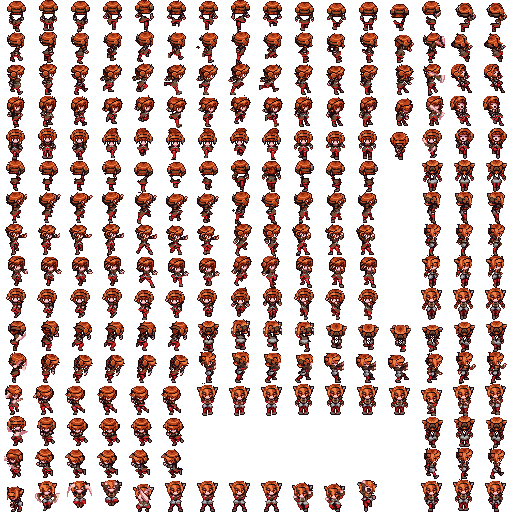
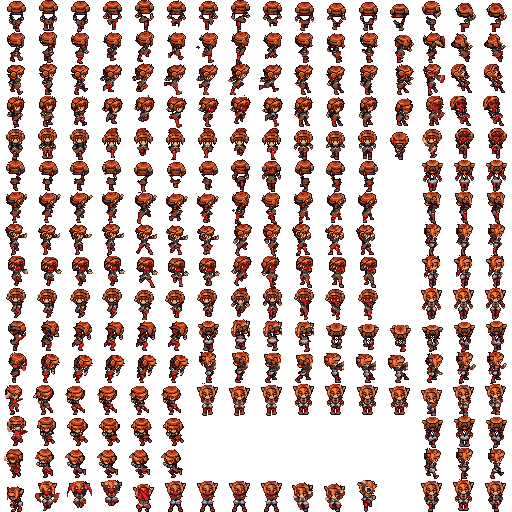
Class skins read as men: tan skin, plain dark eyes, no ribbon
The original hero's face and collar still read as a girl after the haircut. make_skins.py now maps the pink skin to a warm tan (which also takes the blush and the lip colour away), drops the white sparkle from the eyes so they shrink to the dark pupil, and turns the ribbon tie under the chin into collar. The sword's slash streak shared the skin's pinks; a skin-coloured patch too big to be a hand or a face is now drawn in the class's trim colour. Audit scores 83-91, every sheet within the size and pixel-scale gates.

diff --git a/misc/hero_skins/make_skins.py b/misc/hero_skins/make_skins.py
@@ -119,6 +119,34 @@ P = {
  'druid':      dict(hair=[(50,44,36),(90,80,66),(140,128,108),(196,186,166)], cloth=[(34,48,20),(56,76,30),(96,124,52)], metal=[(100,70,40),(156,116,72)], accent=[(80,130,30),(160,210,60)]),
 }
 EYE = [(40, 24, 30), (70, 44, 50)]
+# NOTE: a man's skin: warm tan in place of the original's pinks, which
+# also takes the blush and the lip colour away
+MALE_SKIN = [(104, 58, 36), (190, 130, 92), (234, 186, 146)]
+WHITE = (255, 255, 255)
+# NOTE: a patch of skin colour bigger than this is the sword's slash
+# streak, not a hand or a face
+SLASH_PIXELS = 20
+
+
+def components(mask):
+    """lists of (y, x) for each 4-connected patch of mask"""
+    seen = np.zeros_like(mask)
+    out = []
+    for y0, x0 in zip(*np.nonzero(mask)):
+        if seen[y0, x0]:
+            continue
+        stack, patch = [(y0, x0)], []
+        seen[y0, x0] = True
+        while stack:
+            y, x = stack.pop()
+            patch.append((y, x))
+            for dy, dx in ((1, 0), (-1, 0), (0, 1), (0, -1)):
+                ny, nx = y + dy, x + dx
+                if 0 <= ny < 32 and 0 <= nx < 32 and mask[ny, nx] and not seen[ny, nx]:
+                    seen[ny, nx] = True
+                    stack.append((ny, nx))
+        out.append(patch)
+    return out
 
 
 def class_cell(cell, pal):
@@ -149,6 +177,25 @@ def class_cell(cell, pal):
     put(ACCENT[1], EYE[1], head)
     put(ACCENT[0], pal['accent'][0], ~head)
     put(ACCENT[1], pal['accent'][1], ~head)
+    # NOTE: a man's face: no sparkle in the eyes (they shrink to the dark
+    # pupil), tan skin, and the girl's ribbon tie under the chin becomes
+    # part of the collar
+    put(WHITE, MALE_SKIN[2], head)
+    if h:
+        neck = ~head & (np.abs(xx + 0.5 - cx) <= 2.5) & (yy + 0.5 >= cy + 7.5) & (yy + 0.5 <= cy + 14.)
+        put(ACCENT[0], pal['cloth'][1], neck)
+        put(ACCENT[1], pal['cloth'][2], neck)
+    skin = is_col(cell, SKIN)
+    slash = np.zeros((32, 32), bool)
+    for patch in components(skin):
+        if len(patch) > SLASH_PIXELS:
+            for y, x in patch:
+                slash[y, x] = True
+    for s, d in zip(SKIN, MALE_SKIN):
+        put(s, d, ~slash)
+    put(SKIN[0], pal['accent'][0], slash)
+    put(SKIN[1], pal['accent'][0], slash)
+    put(SKIN[2], pal['accent'][1], slash)
     return out
 
 
